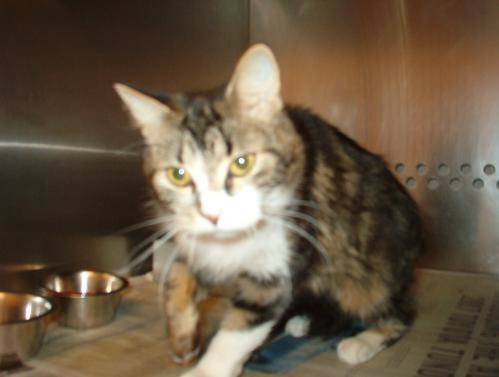
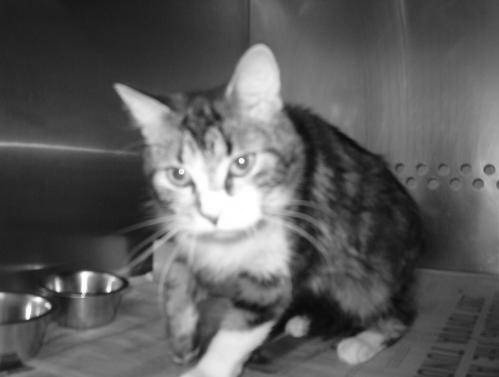
committing grayscale converter

diff --git a/101_Challenge Tasks/Task1/grayscale_converter.py b/101_Challenge Tasks/Task1/grayscale_converter.py
@@ -1,46 +1,64 @@
 """
-Converts all the Images in the path to GrayScale
-Steps Involved:
-    1. 
+The following code is to convert multiple images to grayscale.
 """
+
+
 import glob
 import cv2 as opencv
 import time
-from os import listdir,makedirs
+from os import listdir, makedirs
 
-
-def convert_to_gray(input_path,output_path):
-    try:
-        makedirs(output_path)
-    except:
-        print (" Output Path already exist, images will be written in same folder")
-        output_path = input_path
-    
-    image_list = listdir(input_path)
-    input_path = input_path +'/**jpeg'
-    image_files = glob.glob(input_path,recursive=True)
-    count=0
-    for image in image_files:
-        image_bgr = opencv.imread(image)
-        image_gray =opencv.cvtColor(image_bgr,opencv.COLOR_BGR2GRAY)
-        output_image_path = output_path +'/'+str(image_list[count])
-        opencv.imwrite(output_image_path,image_gray)
-        count+=1
 
 def my_timer(original_func):
+    """
+    - A decorator for convert_to_grayscale() function.
+    - This decorator calculates the time take to convert single & all images.
+    """
+    def wrapper(*args, **kwargs):
+        image_count = len(listdir(input_path))
+        start_time = time.time()
+        time.sleep(1)
+        result = original_func(*args, **kwargs)
+        end_time = time.time()
+        duration = end_time-start_time
+        dur_per_image = duration/image_count
+        print('{}() ran in: {}secs'.format(original_func.__name__, duration))
+        print('Time Taken to Convert Single Image: {}'.format(dur_per_image))
+        return result
+    return wrapper
 
 
-def main():
-    input_path = input("Please Enter Input Path: ")
-    output_path = input("Please Enter Output Path: ")
-    image_count = len(listdir(input_path))
-    start_time = time.time()
-    convert_to_gray(input_path,output_path)
-    end_time = time.time()
-    duration = end_time-start_time
-    print("Time Taken: {}".format(duration))
-    print("Conversion Time per Image: {}".format(duration/image_count))
+@my_timer
+def convert_to_grayscale(input_path, output_path):
+    """
+    Steps Involved:
+    1. Entering Input and Output Path
+    2. Checking whether the Path is same.
+    3. Extracting the no of Images and their filenames.(Recursively)
+    4. Conversion from BGR TO GRAY scale using openCV
+    5. Creation of new images with their curresponding Output Path.
+    """
+    # Try block to check whether the input and output path are same.
+    try:
+        makedirs(output_path)
+    except Exception:
+        print(" Output Path exists, images will be written in same folder.")
+        output_path = input_path
+    # List of file Names
+    image_list = listdir(input_path)
+    input_path = input_path + '/**jpeg'
+    # Recursive Parsing of Images
+    image_files = glob.glob(input_path, recursive=True)
+    count = 0
+    for image in image_files:
+        image_bgr = opencv.imread(image)
+        image_gray = opencv.cvtColor(image_bgr, opencv.COLOR_BGR2GRAY)
+        output_image_path = output_path + '/' + str(image_list[count])
+        opencv.imwrite(output_image_path, image_gray)
+        count += 1
 
 
-if __name__ == "__main__":
-    main()
+# Testing Code
+input_path = input("Please Enter Input Path: ")
+output_path = input("Please Enter Output Path: ")
+convert_to_grayscale(input_path, output_path)
